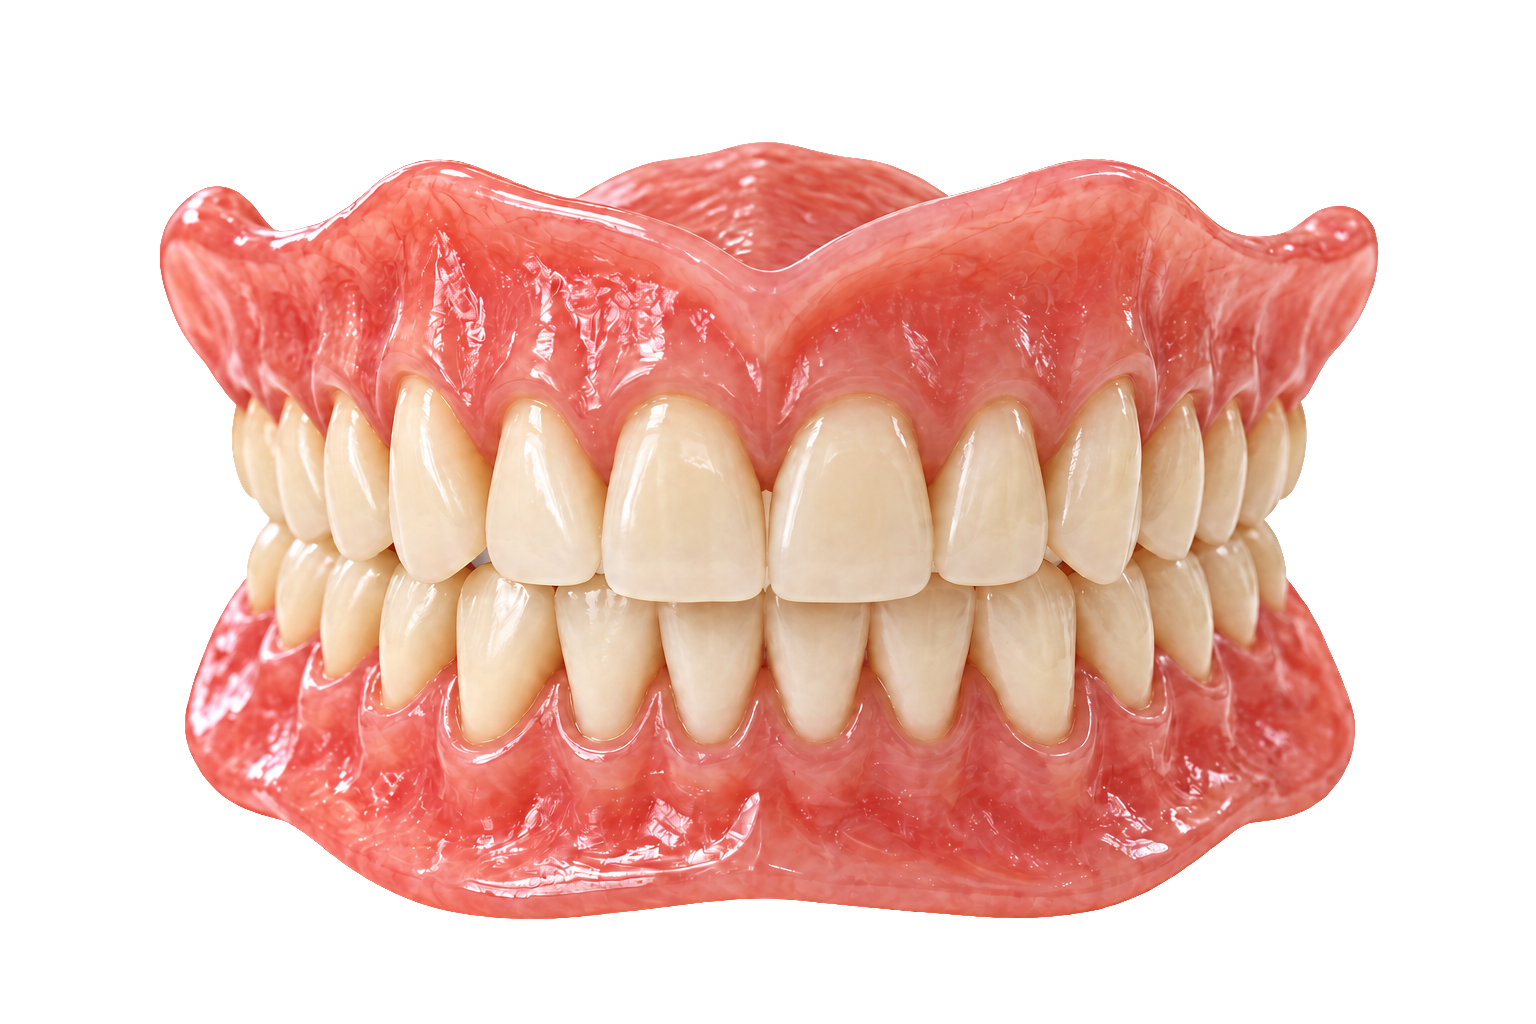
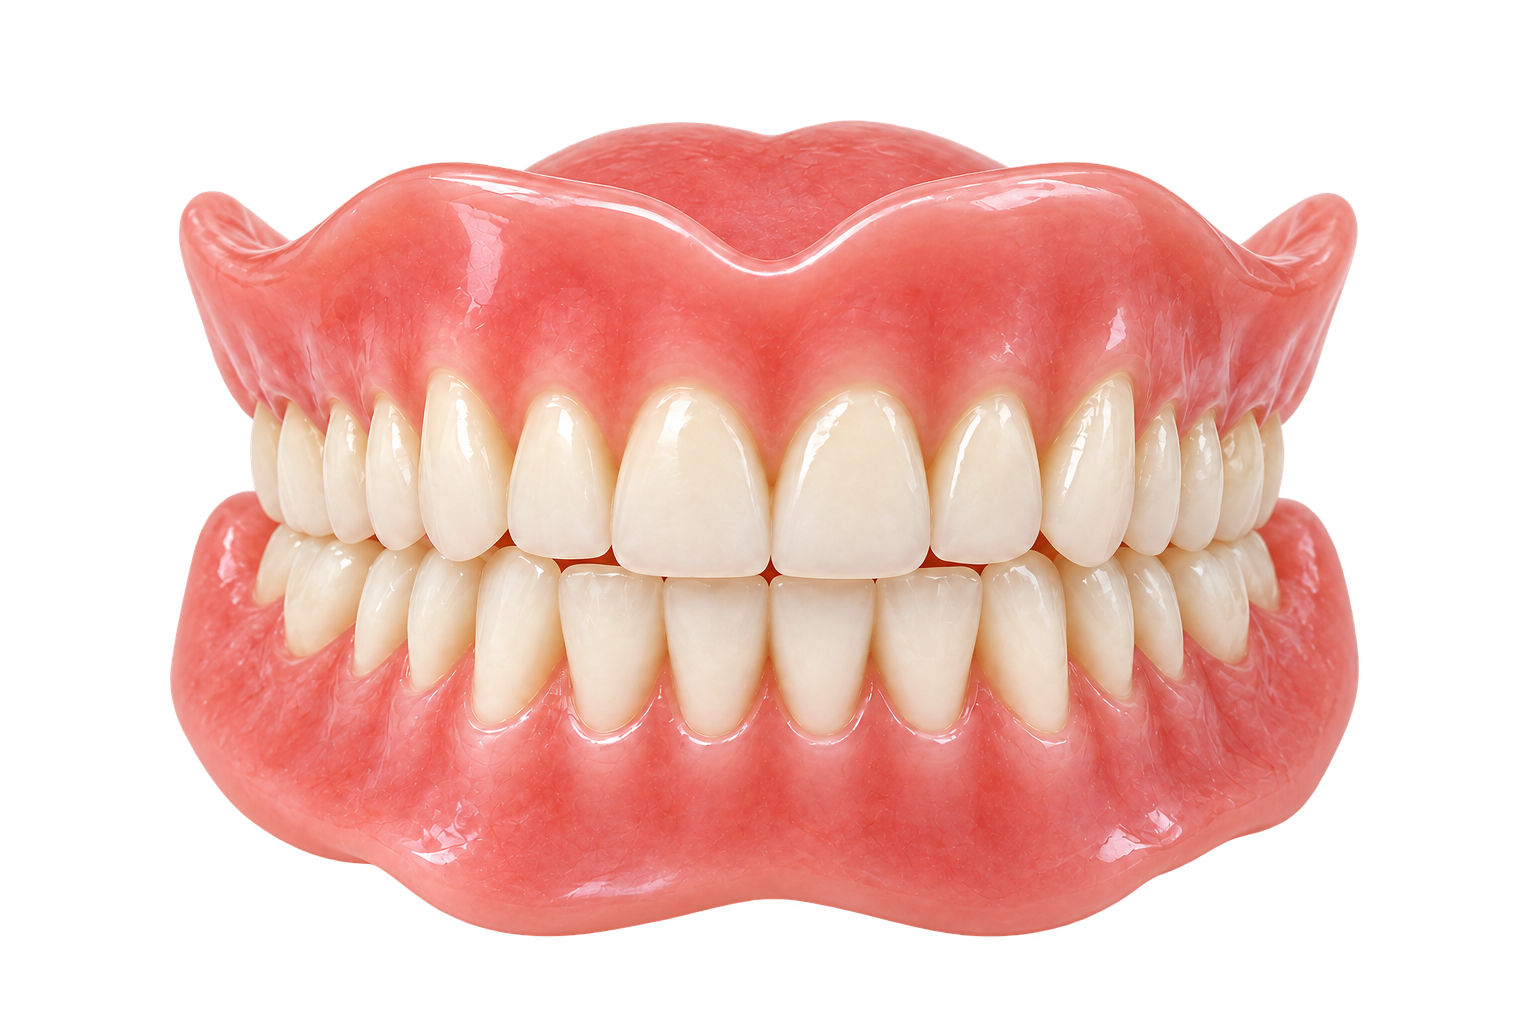
updated dentures

diff --git a/src/pages/Dentures/Dentures.css b/src/pages/Dentures/Dentures.css
@@ -1,5 +1,5 @@
 .dentures {
-  --dentures-section-space: 80px;
+  --dentures-section-space: 40px;
   --font-serif: "Times New Roman", Times, serif;
   --font-sans: "Montserrat", Arial, sans-serif;
   --weight-bold: 600;
@@ -63,9 +63,7 @@
 .dentures__section--options .dentures__heading h2 { color: var(--options-navy); }
 .dentures__section--options .dentures__intro { max-width: 1040px; margin-top: 14px; color: #55585e; }
 .dentures__section--options .dentures__two { align-items: stretch; gap: 22px; }
-.dentures__group { display: grid; grid-template-columns: minmax(0, 1fr); grid-template-rows: auto 58px auto; }
-/* The connector stretches only across the track between the two cards. */
-.dentures__group::before { content: ''; grid-row: 2; grid-column: 1; justify-self: center; border-left: 1px solid var(--options-gold); }
+.dentures__group { display: grid; grid-template-columns: minmax(0, 1fr); grid-template-rows: auto 24px auto; }
 .dentures__group > .dentures__category { grid-row: 1; grid-column: 1; }
 .dentures__group > .dentures__options { grid-row: 3; grid-column: 1; }
 .dentures__category { display: grid; grid-template-columns: 55% 45%; grid-template-rows: minmax(0, 1fr); align-items: stretch; height: 320px; background: var(--options-light); border-radius: 5px; overflow: hidden; }
@@ -77,7 +75,6 @@
 .dentures__category h3 span { display: block; }
 .dentures__group--implants .dentures__category, .dentures__group--implants .dentures__options { background: var(--options-navy); color: white; }
 .dentures__options { position: relative; padding: 24px; border-radius: 5px; background: var(--options-light); }
-.dentures__options::after { position: absolute; bottom: 100%; left: 25%; width: 50%; height: 30px; border: 1px solid var(--options-gold); border-bottom: 0; border-radius: 8px 8px 0 0; content: ''; }
 .dentures__options-heading { display: flex; align-items: center; margin-bottom: 20px; }
 .dentures__options h4 { margin: 0; font-family: var(--font-sans); font-weight: var(--weight-bold); font-size: .82rem; line-height: var(--leading-card); letter-spacing: .13em; text-transform: uppercase; }
 .dentures__option-grid { display: grid; grid-template-columns: repeat(2, minmax(0, 1fr)); gap: 18px; }
@@ -104,6 +101,10 @@
 .dentures__group--implants .dentures__category-image { --art-width: 1016; --art-x: -50.18%; --art-y: -51.41%; }
 .dentures__group--implants .dentures__category-image > img { width: min(calc(87.55cqw * 1084 / 1016), calc(95.42cqh * 1084 / 1016)); }
 .dentures__option > div { display: flex; flex-direction: column; align-items: center; padding: 15px 16px 14px; }
+.dentures__group--implants .dentures__option { background: var(--options-navy); border-color: var(--brand-gold); color: var(--brand-white); }
+.dentures__section--options .dentures__group--implants .dentures__option > .dentures__option-image { background: var(--options-navy); }
+.dentures__group--implants .dentures__option > div { position: relative; }
+.dentures__group--implants .dentures__option > div::before { content: ''; position: absolute; top: 0; left: 12%; right: 12%; border-top: 1px solid var(--brand-gold); }
 .dentures__option h5 { max-width: 100%; overflow-wrap: anywhere; margin: 0; font-family: var(--font-sans); font-weight: var(--weight-bold); font-size: var(--type-card); line-height: var(--leading-card); letter-spacing: normal; text-transform: uppercase; }
 .dentures__section--options .dentures__option p { min-height: 0; margin: 10px 0 4px; font-family: var(--font-sans); font-weight: var(--weight-regular); font-size: var(--type-body); line-height: var(--leading-body); letter-spacing: 0; text-transform: none; }
 .dentures__exam { padding-block: 42px; background: #0b2843; color: white; border-block: 2px solid var(--brand-gold); }
@@ -192,7 +193,7 @@
   .dentures__category { grid-template-columns: 53% 47%; height: 250px; text-align: left; }
   .dentures__category-copy { padding: 18px 14px; }
   .dentures__category-label { min-width: 0; width: 100%; max-width: 142px; }
-  .dentures__group { grid-template-rows: auto 50px auto; }
+  .dentures__group { grid-template-rows: auto 24px auto; }
   .dentures__options { padding: 16px; }
   .dentures__option-grid { gap: 12px; }
   .dentures__section--options .dentures__option { grid-template-rows: 150px 1fr; }
@@ -223,7 +224,6 @@
   .dentures__section--options .dentures__option { grid-template-rows: 180px 1fr; }
   .dentures__section--options .dentures__option > .dentures__option-image { height: 180px; }
   .dentures__section--options .dentures__option > div { padding: 18px 14px; }
-  .dentures__section--options .dentures__options::after { display: none; }
 }
 @media (min-width: 410px) and (max-width: 520px) {
   .dentures__section--options .dentures__option > .dentures__option-image--snap { object-fit: contain; object-position: center; }
@@ -231,7 +231,7 @@
 
 /* Share content-sized title and description rows across both lower panels. */
 @media (min-width: 681px) {
-  .dentures__section--options .dentures__two { grid-template-rows: auto 58px auto auto auto auto; row-gap: 0; }
+  .dentures__section--options .dentures__two { grid-template-rows: auto 24px auto auto auto auto; row-gap: 0; }
   .dentures__group { grid-row: 1 / span 6; grid-template-rows: subgrid; row-gap: 0; }
   .dentures__group > .dentures__options { display: grid; grid-row: 3 / span 4; grid-template-rows: subgrid; row-gap: 0; }
   .dentures__option-grid { grid-row: 2 / span 3; grid-template-rows: subgrid; row-gap: 0; }

diff --git a/src/pages/Dentures/Dentures.jsx b/src/pages/Dentures/Dentures.jsx
@@ -1,6 +1,7 @@
 import { navItems } from '../../components/Navbar/navConfig'
 import hero from '../../assets/dentures/hero-lab.png'
 import traditional from '../../assets/dentures/foodComparison/traditional-denture-transparent.png'
+import traditional1 from '../../assets/dentures/foodComparison/traditional-denture-customized.png'
 import traditionalCategory from '../../assets/dentures/foodComparison/denture-2-transparent.png'
 import implantCategory from '../../assets/dentures/foodComparison/snap-in-5-transparent.png'
 import snapComparison from '../../assets/dentures/foodComparison/snap-in-denture-transparent.png'
@@ -63,7 +64,7 @@ function DayOne() {
 const optionGroups = [
   { id: 'traditional', title: 'Traditional Denture', titleLines: ['Traditional', 'Denture'], label: 'Standard', image: traditionalCategory, imageAlt: 'Traditional removable denture', options: [
     { title: 'Standard', image: traditional, imageAlt: 'Standard traditional denture', text: 'A reliable, functional solution for your smile.' },
-    { title: 'Customized', image: traditional, imageAlt: 'Customized traditional denture', text: 'An enhanced fit, comfort and natural appearance.' },
+    { title: 'Customized', image: traditional1, imageAlt: 'Customized traditional denture', text: 'An enhanced fit, comfort and natural appearance.' },
   ] },
   { id: 'implants', title: 'Implant-Supported Teeth', titleLines: ['Implant-', 'Supported Teeth'], label: 'Customized', image: implantCategory, imageAlt: 'Implant-supported denture', options: [
     { title: 'All-on-4 Fixed Arch', imageClass: 'dentures__option-image--fixed', image: fixedOption, imageAlt: 'All-on-4 fixed implant-supported arch', text: 'A permanent solution for a confident, natural smile.' },
